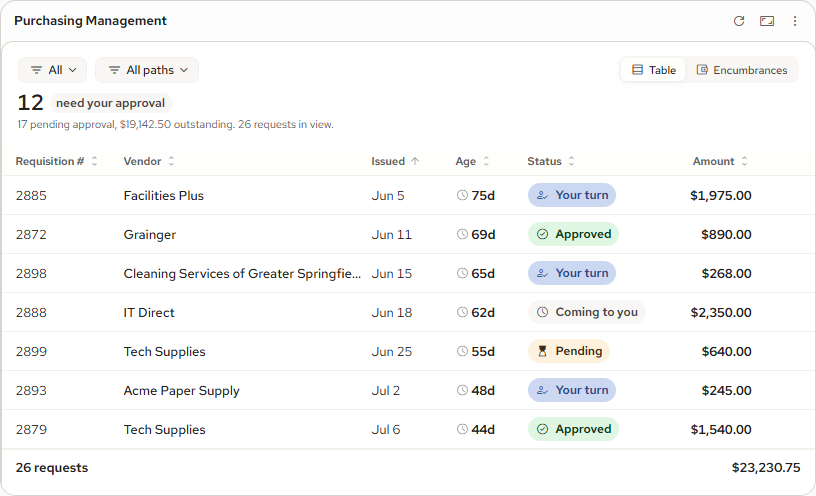
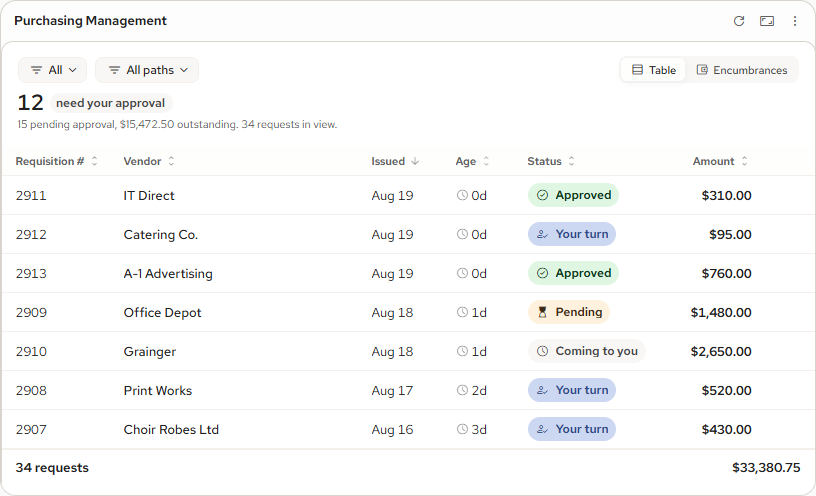
Purchasing Management: handover section and shots for the 9 Oct build
Seven V2 shots retaken (old set under _superseded/2026-10-09-glance); shot 07 now
opens a Your turn request so the Approve / Hold / Reject footer shows. Prose
rewritten for the 9 Oct build: Glance tiles, one status chip plus All requests,
newest-first sortable table, rejected requests hidden, holds as the data panel,
read-only pop-up with three actions and Open request; Still open names the
Awaiting-filter reading, the Open request route and the write path.

diff --git a/handover.html b/handover.html
@@ -804,79 +804,83 @@ main{padding:20px 16px 60px} .widget{padding:18px 16px} .pair-grid{grid-template
 </details>
 
 <div class="prose"><h3>Overview</h3>
-<p>V2 keeps V1's shape: filter chips on the left, a two-way view switch on the right, a headline count with a pill, a request table, a bar chart of open purchase orders by accounting period with its Chart / Table sub-toggle, a row footer with count and total, and a pop-up when a row is tapped. V1 called the second view "Committed"; V2 calls it "Encumbrances", the legacy name. Underneath, the widget was rebuilt on the legacy approval model, so almost every figure is computed differently. It changes eight things:</p>
+<p>V2 keeps V1's shape: two filter chips on the left, a two-way view switch on the right, a headline count with a pill, a request table, a bar chart of open purchase orders by accounting period with its Chart / Table sub-toggle, a row footer with count and total, and a pop-up when a row is tapped. V1 called the second view "Committed"; V2 calls it "Encumbrances", the legacy name. Underneath, the widget follows the legacy Purchasing Management data panel and its Requests / Update screen, so whose turn it is, what is listed and what is hidden are computed the way the product computes them. It changes seven things:</p>
 <ol>
-<li><strong>The approval model.</strong> Whose turn it is comes from the request's approval path: ordered levels, "or" approvers, each approver's own dollar minimum, and the rows already acted on. V1 stored one flat status per row.</li>
-<li><strong>One status chip, as V1, plus All.</strong> All requests first, then V1's four options in V1's order: Awaiting my approval next, Awaiting my approval, Unapproved, Approved. The demo opens on All requests so every status chip is on show; the options carry no icons, and a tick marks the current one. An earlier V2 draft split this into a viewer-scope chip and a record-status chip; they were merged back on 9 Oct.</li>
-<li><strong>The table.</strong> V1's columns in V1's order: Requisition #, Vendor, Issued, Age, Status, Amount, with the amount last. The headers sort as on Budget Compared to Actual: oldest first by default, click the active header to flip it, a text or date header opens ascending and a number header largest first. Every row is listed at both sizes and the table scrolls; the row text is the dashboard's table style, plain, with the amount in bold. The requisition shows its number alone, as the real system does; Issued shows month and day only; Age is the days since issue with a clock glyph, emphasised from 30 days, as V1 had it, with the wording on hover; Status is a chip, an icon and a short word on a status tint, from the turn logic (below); a row opens the purchase order (no edit icon). Vendor is a bounded column: a name longer than it is cut with an ellipsis, and hovering the cut name shows it in full; a name that fits shows no hover. Issued takes the width Vendor gives up. V1 had Requisition# (Order# when approved), Vendor, Issued, Age, Amount, all sortable. Earlier V2 drafts added Department, a Status cell with a turn badge, a red Overdue flag with a row tint, and an edit icon at the row end; all were taken out on 9 Oct to get the base table right first, and may be rebuilt on top.</li>
-<li><strong>Rejected and held requests are listed</strong>, badged "Rejected by X: reason" or "On hold: reason". V1 never showed a rejected request.</li>
-<li><strong>The headline</strong> reads "9 need your approval" with a context line ("13 pending approval, $14,397.50 outstanding. 20 requests in view."). V1 counted the filtered rows with a "$5,835 to approve" pill.</li>
-<li><strong>Glance</strong> shows everything waiting for action, three tiles (My approval, Coming to me, Waiting on others) and the dollars outstanding. V1 showed a chip, one count and two captions.</li>
-<li><strong>Encumbrances</strong> gains month-and-year periods, an Orders column, a click-through from any bar or row to the orders behind it, its own headline, and a Detail view of chart and table side by side. V1's Detail was the queue beside the chart, with no switch.</li>
-<li><strong>The record pop-up is the legacy Requests / Update page</strong>: header fields, Detail / Approvals / Attachments / Note tabs, the approvals grid with its rules, Save and Cancel. V1 opened a summary card with Approve and Reject buttons and a link that left the dashboard.</li>
+<li><strong>The approval model.</strong> Whose turn it is comes from the request's approval path: ordered levels, "or" approvers on a level, each approver's own dollar minimum, and the approval rows already acted on. V1 stored one flat status per row.</li>
+<li><strong>One status chip, as V1, plus All requests.</strong> All requests first, then V1's four options in V1's order: Awaiting my approval next, Awaiting my approval, Unapproved, Approved. The widget opens on All requests.</li>
+<li><strong>The table.</strong> Requisition #, Vendor, Issued, Age, Status, Amount. Every header sorts, newest first by default, every row is listed and the table scrolls. Status is a new chip column that says whose turn it is. A request with a rejected approval row is not listed anywhere in the widget, as the legacy panel hides it.</li>
+<li><strong>Glance.</strong> Three tiles, Your turn, Coming to you and Pending, each with its count and its dollars. V1 showed a chip, one count and two captions.</li>
+<li><strong>Encumbrances.</strong> Month-and-year periods with a bar for every month up to the current one, an Orders column, a click-through from any bar or row to the orders behind it, its own headline, both filter chips narrowing it, and a Detail view with chart and table side by side.</li>
+<li><strong>The record pop-up.</strong> The legacy Requests / Update screen, read-only: its header fields and its Detail, Approvals, Attachments and Note tabs, with Approve, Hold and Reject for the viewer's own level and an Open request link to the real screen. V1 opened a summary card with Approve and Reject and a link that left the dashboard.</li>
+<li><strong>Holds.</strong> A held request shows "On hold" and stays listed where its approvals put it; the viewer's own hold takes it out of their lists, as the legacy does.</li>
 </ol>
-<p>Everything else (the chip-and-toggle header, the Chart / Table sub-toggle, the bar chart and its caption, the period table's total row, the row footer, the searchable path menu, tapping a row to open it) is unchanged and in the same place as V1. Where the figures in the screenshots differ, that is only because the two demos use different sample data. The Kanban board and legend icon built in September were removed by the owner on 5 and 6 October and are not part of V2.</p>
+<p>Everything else (the chip-and-toggle header, the Chart / Table sub-toggle, the bar chart and its caption, the period table's total row, the row footer, the searchable path menu, tapping a row to open it) is unchanged and in the same place as V1. Where the figures in the screenshots differ, that is only because the two demos use different sample data.</p>
 <h3>What's Different</h3>
 <h4>Filters</h4>
 <ul>
-<li><strong>Explore - Table, Detail:</strong> the status chip, then the path chip (All approval paths plus every path with rows, searchable; hidden when only one path has rows), both in the same filter-chip style as Budget Compared to Actual, filter glyph included, at every size. Explore shortens the long labels ("All", "My approval next", "My approval", "All paths"); Detail keeps the full words. The same two chips V1 had.</li>
-<li><strong>Detail:</strong> an "Overdue only" toggle chip, Table view at Detail only. New in V2.</li>
-<li><strong>Explore - Encumbrances chart, Detail - Encumbrances:</strong> the status chip is hidden. The Table | Encumbrances switch appears at both sizes; V1 had Queue | Committed at Explore only.</li>
+<li><strong>Explore - Table, Detail:</strong> the status chip, then the path chip (All approval paths plus every path, searchable), both in the same filter-chip style as Budget Compared to Actual, filter glyph included, at every size. Explore shortens the long labels ("All", "My approval next", "My approval", "All paths"); Detail keeps the full words. The same two chips V1 had.</li>
+<li><strong>Explore - Encumbrances chart, Detail - Encumbrances:</strong> both chips stay and narrow the bars: the status chip chooses pending, approved or both, and the path chip the path. The Table | Encumbrances switch appears at both sizes. V1 had Queue | Committed at Explore only and no status filter on the chart.</li>
+</ul>
+<h4>Headline</h4>
+<ul>
+<li><strong>Explore - Table, Detail:</strong> "N need your approval", the Your turn and Coming to you requests together, narrowed by the path chip but never by the status chip, with a context line: how many are pending approval, the dollars outstanding on them, and how many requests are in view under the current chips. V1 counted the filtered rows and showed the dollars to approve in a pill.</li>
 </ul>
 <h4>Table</h4>
 <ul>
-<li><strong>Explore - Table, Detail:</strong> the Status column is a chip in Jo's Phase 2 style, an icon and a short word on a subtle tint from the Pathway status tokens (attention for Pending, brand for Your turn, neutral for Coming to you, positive for Approved, negative for Rejected, severe for On hold): "Your turn" (my level acts next), "Coming to you" (I am on the path, an earlier level acts first), "Pending" (someone else's turn and I am not later on the path), "Approved"; a pending request with an acted row reads "Rejected" or "On hold". The detail behind the word, who acted and who is next, is in the pop-up's Approvals tab. V1 had no status column.</li>
-<li><strong>Explore - Table, Detail:</strong> rows carry no overdue mark; at Detail the "Overdue only" chip narrows the list to pending requests past their expected-by date. V1 bolded the Age cell at 30 days or more.</li>
+<li><strong>Explore - Table, Detail:</strong> V1's columns in V1's order with Status added before Amount. The requisition shows its number alone, as the real screen does; Issued shows month and day; Age is the days since issue with a clock glyph, emphasised from 30 days as V1 had it, with the wording on hover; the amount is bold; a row opens the record. Vendor is a bounded column: a name longer than it is cut with an ellipsis and shows in full on hover. V1 had Requisition# (Order# when approved), Vendor, Issued, Age, Amount.</li>
+<li><strong>Explore - Table, Detail:</strong> the Status column is a chip, an icon and a short word on a subtle tint from the status tokens: "Your turn" (my level acts now), "Coming to you" (I am on the path, an earlier level acts first), "Pending" (someone else's turn), "Approved", and "On hold" (a hold row on a pending request). Who acted and who is next is in the pop-up's Approvals tab. V1 had no status column.</li>
+<li><strong>Explore - Table, Detail:</strong> the headers sort as on Budget Compared to Actual: newest first by default, click the active header to flip it, a text header opens ascending, Issued and the number headers open newest or largest first. Every row is listed at both sizes and the table scrolls. V1's headers sorted too, oldest first.</li>
 </ul>
 <h4>Glance</h4>
 <ul>
-<li><strong>Glance:</strong> "13 waiting for action", tiles My approval / Coming to me / Waiting on others with hover explanations, caption "$14,397.50 outstanding". V1: a fixed "Awaiting my approval" chip, the count, and two captions (outstanding, committed).</li>
+<li><strong>Glance:</strong> three tiles that fill the card: "Your turn", "Coming to you" and "Pending", each with its count and its dollars in whole dollars. The first is tinted as the Your turn chip, the last as the Pending chip. Hovering or focusing a tile names the V1 filter it stands for, how many of all pending requests it holds, the rule, and the amount of those requests to the cent. V1: a fixed "Awaiting my approval" chip, the count, and two captions (outstanding, committed).</li>
 </ul>
 <h4>Encumbrances</h4>
 <ul>
-<li><strong>Explore - Encumbrances chart, Detail - Encumbrances:</strong> bars labelled "Jun 2026"; the headline becomes "$13,469.50 encumbered, not yet paid". A bar opens the period's orders with status and amount; each opens the record. V1 labelled bars "Apr", "May", showed a hover card with the total, and had no click-through.</li>
-<li><strong>Explore - Encumbrances table, Detail - Encumbrances:</strong> Accounting period, Orders, Encumbered; rows click like the bars. V1 had Accounting period and Committed only.</li>
+<li><strong>Explore - Encumbrances chart, Detail - Encumbrances:</strong> bars labelled "Jan 2026", one for every month from the first open order to the current month, so a quiet month shows as a gap; the headline becomes "$ encumbered, not yet paid" with a context line (open orders, accounting periods, and whether the bars are pending, approved or both). A bar opens the period's orders with status and amount; each opens the record. V1 labelled bars "Apr", "May", showed a hover card with the total, and had no click-through.</li>
+<li><strong>Explore - Encumbrances table, Detail - Encumbrances:</strong> Accounting period, Orders, Encumbered, with a total row; rows click like the bars. V1 had Accounting period and Committed only.</li>
 </ul>
 <h4>Pop-up</h4>
 <ul>
-<li><strong>Pop-up - Purchase order:</strong> "Purchase order PO-2610", subtitle "Purchasing Management, Requests, Update. Approved, paid". The request header fields in two columns, including Status, Approval Path and Ship To. Tabs Detail (lines and totals), Approvals (turn line and grid), Attachments, Note (note and activity log). Footer: Cancel and Save (disabled on a paid, closed or voided order); the body scrolls under a fixed header and footer. A request the viewer can act on opens on Approvals, the rest on Detail. V1's Approve and Reject buttons are gone: approving, rejecting and holding happen in the grid.</li>
+<li><strong>Pop-up - Purchase order:</strong> titled "Requisition N · Vendor" with the table's status chip, and Open request top right, which goes to Purchasing Management, Requests, Update, where everything can be changed. Below, the screen's header fields as a read-only grid in the screen's order: Vendor with address and terms, Ship To, Email, Type, Status, Approval Path, Requisition #, Purchase Order # or Check Request #, Purchase Order Date or Check Request Date, Issued To, Agent, Shipping, Date Requested; an empty field reads "Not set".</li>
+<li><strong>Pop-up - Purchase order:</strong> tabs Detail (the lines with period, account with fund and department, description, project and amount, and a totals row with Tax, Freight, Other and Total), Approvals (the turn line and the screen's seven-column approvals grid, read-only), Attachments (the files on the request, each with Open, with a count on the tab) and Note (the one writable field, with Save note, above the activity log).</li>
+<li><strong>Pop-up - Purchase order:</strong> footer Reject, Hold and Approve when the viewer's level may act, each opening a confirm strip with an optional note or reason; Remove hold on the viewer's own hold; otherwise Close alone with a line saying why ("This request is approved; nothing to decide here.", "On hold by X."). V1 had Approve and Reject on a summary card; V2 adds Hold and shows the whole record. Nothing else on the record is edited here.</li>
 </ul>
 <h3>Developer Notes</h3>
-<p>New data: each approval path's levels, approvers and per-approver minimums; each request's acted rows (who, level, approved / rejected / hold, reason, date); the record status; the expected-by date; the department; whether the linked invoice is paid. Everything else is presentation.</p>
 <h4>Data</h4>
+<p>Per request: status (Not submitted, Unapproved, Approved, Closed, Voided), vendor with address and terms, type (purchase order or check request), approval path, requisition and order numbers, the header fields listed above, issued and requested dates, total with tax, freight and other, the lines (period, account with fund and department, description, project, quantity, unit, unit price, amount), attachments, the note and the activity log, who created it, and whether the linked Accounts Payable invoice is paid. Per request, the acted approval rows: who, level, approved / rejected / hold, reason, date. Per approval path: the levels in sequence, the approvers on each level, each approver's required minimum, and which users may see the path. For the viewer: admin and approval-override rights. Everything else is presentation.</p>
+<h4>What is listed</h4>
 <ul>
-<li><strong>Record status</strong> is one stored value: Unapproved (shown as Pending approval), Approved, Closed, Voided. Rejected and On hold are acted rows on an Unapproved request, not statuses. Paid comes from the linked Accounts Payable invoice.</li>
-<li><strong>A path</strong> is ordered levels. "Then" opens a level; "Or" adds an interchangeable approver to the same level. The dollar minimum sits on the approver ("X has to approve if at least $N"), not on the level.</li>
-<li><strong>Today</strong> is pinned to 19 Aug 2026 in the demo; the real build uses the browser's date. The expected-by date is an unconfirmed field: if absent, the Overdue only chip needs a fallback.</li>
+<li>A request with a rejected approval row is hidden from the whole widget under every option: table, headline, tiles and bars. It is reached from the Requests page. Rejecting from the pop-up records the row and the request leaves the table.</li>
+<li>Not submitted, Closed and Voided requests never appear in the lists; Closed and Voided are reached from a record.</li>
+<li>Status chip: All requests = every Unapproved or Approved request on a path the viewer may see. Awaiting my approval = pending, and my level acts now (the Your turn rows). Awaiting my approval next = pending, I am on the path, and an earlier level has to act first (the Coming to you rows). Unapproved = every pending request on a path I may see, whoever is next. Approved = every approved order on such a path. The path chip then narrows any of them.</li>
+<li>Headline = Your turn + Coming to you within the path chip. Glance tiles = the counts and sums of the Awaiting my approval, Awaiting my approval next and Unapproved sets within the path chip. The status chip changes only the rows and the bars.</li>
 </ul>
 <h4>The turn rule</h4>
 <ul>
-<li>Keep the levels whose minimum the total reaches, each reduced to the approvers it reaches. If none applies, the request is released as Approved on submit with no approver.</li>
-<li>A rejected row blocks; a hold row blocks. Otherwise the next applicable level above the highest acted level is whose turn it is. Any one approver satisfies a level; approving at a level implies every level below it. The request becomes Approved when every applicable level is covered; removing an approval puts it back to Unapproved.</li>
+<li>Keep the levels whose required minimum the request total reaches, each reduced to the approvers it reaches. If none applies, the request is released as Approved on submit with no approver.</li>
+<li>The next applicable level above the highest level with an approved row is whose turn it is. Any one approver satisfies a level; approving at a level implies every level below it. The request becomes Approved when every applicable level is covered.</li>
+<li>A hold row does not count as acted for this rule, so a held request is not promoted into the next level's queue; it stays where the approved rows put it, shows "On hold", and stays in the viewer's lists if they are still to act. The viewer's own hold takes the request out of their Awaiting lists until they remove it.</li>
+<li>Coming to you offers Approve as well as Your turn: the screen enables the rows down to the viewer's own and the approval cascades below, which may complete the path.</li>
 <li>Example, Education Ministry: Alfred Johnson from $500; Then Lanette Stewart or Jim Anderson from $2,000; Ends with Pastor Bob from $5,000. $640 needs Alfred only. $3,150 needs Alfred, then Lanette or Jim; Pastor Bob is not reached. $430 reaches nobody and is released on submit.</li>
-<li><strong>The payment approval process is a company setting, off by default.</strong> Off, there is no payment path, no Payment Approval tab and no payment path field; an approved request goes straight to Accounts Payable. The build keeps the payment path behind the setting; on, the tab and a second grid return once a request is Approved.</li>
 </ul>
-<h4>Scopes, headline and Glance</h4>
+<h4>Dates and figures</h4>
 <ul>
-<li>Status chip: All requests = everything but Closed and Voided orders, which are reached from a record, not from the list. Awaiting my approval = pending, and my level acts now (the Your turn rows). Awaiting my approval next = pending, I am on the path, and an earlier level has to act first (the Coming to you rows). Unapproved = every pending request, whoever is next. Approved = the approval path is complete.</li>
-<li>Headline = next + later for the viewer, limited by the path chip, never by the status chip. Glance headline = Pending requests; My approval = next; Coming to me = later; Waiting on others = someone else's turn and I am not later on the path. "Waiting on others" replaced "To be paid" when the payment process was switched off and still needs the owner's confirmation.</li>
+<li>Today is the browser's date. Age = days since the issued date; the 30-day emphasis is V1's.</li>
+<li>Encumbrance = the legacy rule: open line dollars (quantity times unit price, less dollars applied, where positive) of the rows in view, grouped by accounting period, held orders included, paid, closed, voided and rejected excluded. The demo approximates it as the order total by issue month.</li>
 </ul>
-<h4>Table and Encumbrances</h4>
+<h4>Pop-up actions</h4>
 <ul>
-<li>Oldest first by issue date. Overdue = Pending and expected-by date before today.</li>
-<li>Open for encumbrance = Pending or Approved, unpaid, no rejected row; held orders count; closed, voided and paid release. The demo sums the order total by issue month; the legacy sums open line dollars by GL period. The path chip applies; the payment setting does not change the figure.</li>
-</ul>
-<h4>Pop-up</h4>
-<ul>
-<li>Grid: one row per approver in path order, prefixed "Starts with", "Then", "Or" (indented), "Ends with"; a creator not on the path gets a level-0 "Starts with" row. Columns Approved, Rejected, Reason, Hold, Reason, Approval Updated By; out-of-office approvers flagged in red.</li>
-<li>The grid follows the legacy cascade and lock rules: ticking Approved ticks every level at or below it, boxes are enabled down to the viewer's own level, and any acted row locks Type, Approval Path, Vendor, Ship To and the lines. Status offers the current value and Closed always, Voided only from Approved when the creator is on the path, Approved from Closed or from Voided when every box is ticked. Submit for Approval shows while Unapproved with nothing approved; saved unticked, the request is "not submitted" and leaves the scopes. Save applies everything at once and re-evaluates the path; Cancel discards.</li>
+<li>Each action is what ticking the box on the viewer's row and pressing Update does on the screen. Approve ticks Approved on my row and cascades below; Hold ticks Hold with a reason; Reject ticks Rejected with a reason. Reasons are optional, 50 characters, blank saved as "unknown". Approving when a lower level holds clears that hold through the cascade, as the screen does. A later level that has acted locks Approve and Reject. The legacy emails (next approver, creator, vendor, on reject, on hold) follow their company settings.</li>
+<li>The payment approval process is a company setting, off by default. Off, there is no payment path, no Payment Approval Path field and no Payment Approval tab; an approved request goes straight to Accounts Payable. On, the field and a read-only tab return once a request is Approved; not shown in the demo.</li>
 </ul>
 <h4>Still open</h4>
 <ul>
-<li>No approval, hold, status or record write API exists; every action is in memory for the session.</li>
-<li>The table lists only the oldest 5 rows at Explore and 10 at Detail; the footer counts all 20 and nothing reaches the rest. Paging or a full scrolling list is needed.</li>
-<li>The legacy counts a hold as an acted row, so the next level sees the request as its turn; the demo drops a held request from both scopes. Decide which to ship.</li>
-<li>Delegation and out-of-office cover are not modelled (nor in the legacy); the approval override right is off; building and editing paths is separate work. Payment approval in the widget versus the payment screen, and the financial treatment of a void, are unresolved.</li>
+<li>The two Awaiting filters are read the other way round from the legacy panel's own queries, where "Awaiting my approval next" is the queue whose level acts now and "Awaiting my approval" is everything on my path I have not acted on. Confirm which reading ships before the labels are final.</li>
+<li>Where Open request goes: the dashboard has no route to Purchasing Management, Requests, Update yet.</li>
+<li>Which service receives an approval, hold, rejection or saved note from the dashboard, and whether the legacy emails fire from it.</li>
+<li>Rejected requests have no way back into view from the dashboard, only from the Requests page; confirm that is wanted.</li>
+<li>Delegation and out-of-office cover are not modelled (nor in the legacy); the approval-override right is off in the demo; building and editing paths is separate work. Payment approval in the widget versus the payment screen, and the financial treatment of a void, are unresolved.</li>
 </ul>
 </div></section>
 <section id="w14" class="widget"><header class="wh"><div><span class="wid">W14</span><h2>Main Content Tasks</h2></div><div class="badges"><span class="ctype t-visual">Visual Only</span><span class="rev">Draft 6 Oct 2026</span></div></header>

diff --git a/_tools/one-off/shoot-handover-2026-10-07.js b/_tools/one-off/shoot-handover-2026-10-07.js
@@ -90,7 +90,7 @@ const W = {
       { num: "04", label: "Explore - Encumbrances table", size: "wide", steps: [{ click: '[data-purf="view"][data-v="enc"]' }, { click: '[data-purf="enc-view"][data-v="table"]' }] },
       { num: "05", label: "Detail", size: "xwide" },
       { num: "06", label: "Detail - Encumbrances", size: "xwide", steps: [{ click: '[data-purf="view"][data-v="enc"]' }] },
-      { num: "07", label: "Pop-up - Purchase order", size: "wide", steps: [{ click: '[data-purf="open"]' }], target: ["#purfModalRoot .modal", "#purfModalRoot [role=dialog]"] },
+      { num: "07", label: "Pop-up - Purchase order", size: "wide", steps: [{ click: '[data-purf="open"]:has(.purf-stchip-next)' }], target: ["#purfModalRoot .modal", "#purfModalRoot [role=dialog]"] },
     ] } },
   W14: { name: "Main Content Tasks", kind: "tasks",
     v1: { ids: { kpi: "mct4", wide: "mct", xwide: "mct2", wide2: "mct3" }, shots: [
